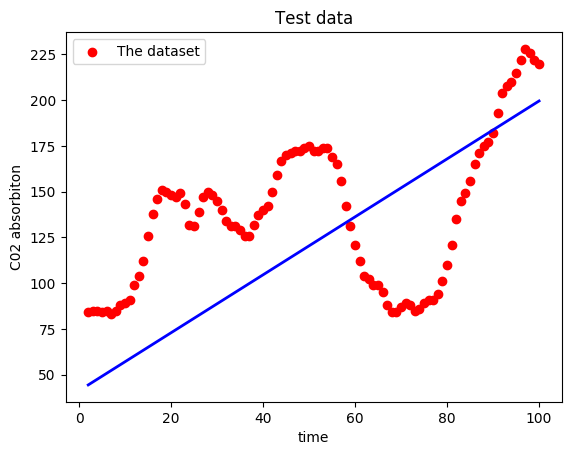
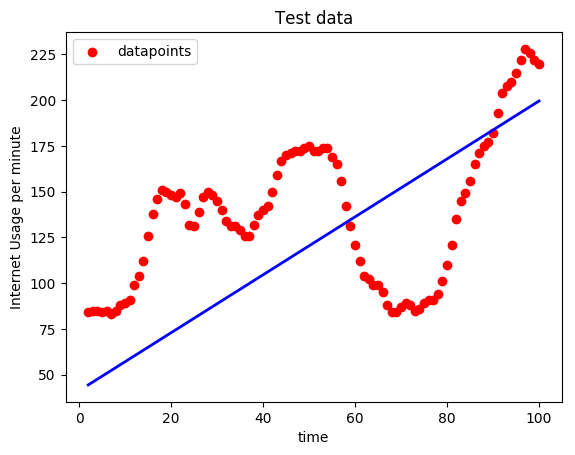
Added legends to the graphs

Changed region(s): [[0.0, 0.2769, 0.0591, 0.6769], [0.207, 0.0923, 0.3548, 0.1231]]

diff --git a/reg_lorentzian_peak.py b/reg_lorentzian_peak.py
@@ -47,9 +47,10 @@ fitted_params, niepewnosci = curve_fit(double_Lorentz, x_pts, y_pts, initial_par
 a, b, A, w, x_0, A1, w1, x_01 = fitted_params
 y_fit = double_Lorentz(x_pts, a, b, A, w, x_0, A1, w1, x_01)
 
-plt.plot(y_pts, c='#42f4c2')
+plt.plot(y_pts, c='#42f4c2',label='Internet Usage')
 plt.plot(y_fit, c='#f49441')
+plt.legend(loc='upper left')
 
-fig1 = plt.gcf()
-fig1.savefig('graph_2.png', bbox_inches='tight')
+#fig1 = plt.gcf()
+#fig1.savefig('graph_2.png', bbox_inches='tight')
 plt.show()

diff --git a/plot_points.py b/plot_points.py
@@ -9,8 +9,8 @@ fig = plt.figure()
 ax1 = fig.add_subplot(111)
 ax1.set_title("Test data")    
 ax1.set_xlabel('time')
-ax1.set_ylabel('internet Usage per minute')
-ax1.scatter(data['x'],data['y'], c='r', label='The dataset')
+ax1.set_ylabel('Internet Usage per minute')
+ax1.scatter(data['x'],data['y'], c='r', label='datapoints')
 
 intercept = 41.1741378707
 slope = 1.5838905446

diff --git a/README.md b/README.md
@@ -21,7 +21,7 @@ To run the linear regression program with the lorentzian peak function
 
 ----
 
-##Dependecies
+## Dependecies
 
 Numpy
 
@@ -46,17 +46,17 @@ The line really doesn't help get a really good prediction.
 
 * The data points are that of internet usage per minute
 
-### Using the Double Lorentzian peak equation using a genetic algorithm
+### Using the Double Lorentzian peak equation with a genetic algorithm
 
 We observe that this straight line doesn't really tells us much about the trend in the data.
 So in order to fit the data better, instead to fitting a line we will now fit a curve.
 
-We will also add a gradient descent optimiser that is built into scipy to optimise the code even more.
-This optimiser helps us choose "good" initial points that will speed up the gradient descent process.
+We will also add a gradient descent optimizer that is built into scipy to optimise the code even more.
+This optimizer helps us choose "good" initial points that will speed up the gradient descent process.
 It will also will prevent getting stuck in a local minima.This becomes crucial when we have a more
 complex error space.
 
-We can also clearly see that the results are clearly much better
+We can also see that the results are clearly much better
 ![Graph_2](/graph_2.png?raw=true)
 
 ----
